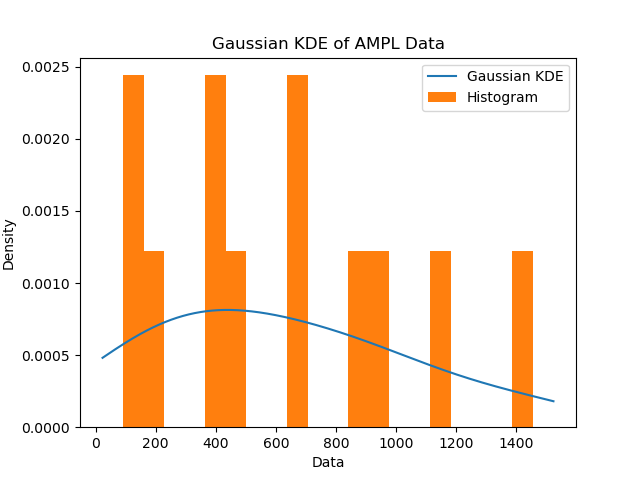
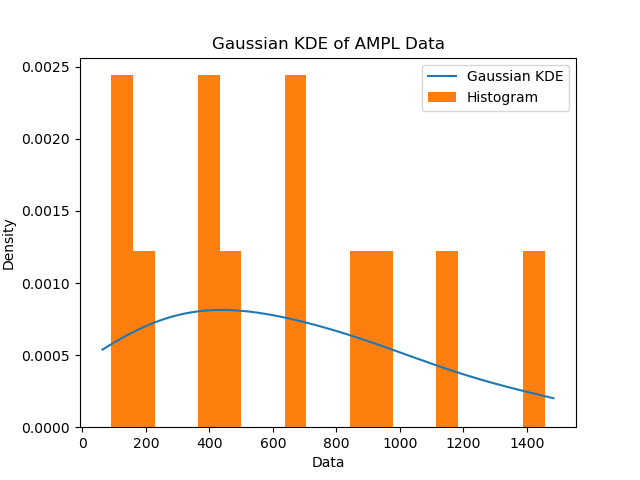
fixed a bunch of typos in create_scen_distr

diff --git a/sparow_examples/mrp_facilityloc/create_scen_distr.py b/sparow_examples/mrp_facilityloc/create_scen_distr.py
@@ -28,7 +28,7 @@ all_values = np.concatenate(
     list(ampl_data.values())
 )  # concatenate values into a single array for KDE
 kde = gaussian_kde(all_values)
-tails_of_distr = 0.05 * (max(all_values) - min(all_values))  # using 5%
+tails_of_distr = 0.02 * (max(all_values) - min(all_values))  # using 2% (more likely to be feasible)
 x_range = np.linspace(
     min(all_values) - tails_of_distr, max(all_values) + tails_of_distr, 1000
 )
@@ -104,7 +104,7 @@ sampe_probs = sample_probs.reshape(n, 4)
 scens_list = []  # list of scenarios to populate
 for idx, scen in enumerate(samples):
     scens_list.append(
-        {"ID": f"{idx}", "Demand": scen, "Probability": np.prod(sample_probs[idx])}
+        {"ID": f"{idx}", "Demand": scen.tolist(), "Probability": np.prod(sample_probs[idx])}
     )
 # normalize HF scenario probabilities
 norm_term = sum(scens_list[s_idx]["Probability"] for s_idx in range(len(scens_list)))
